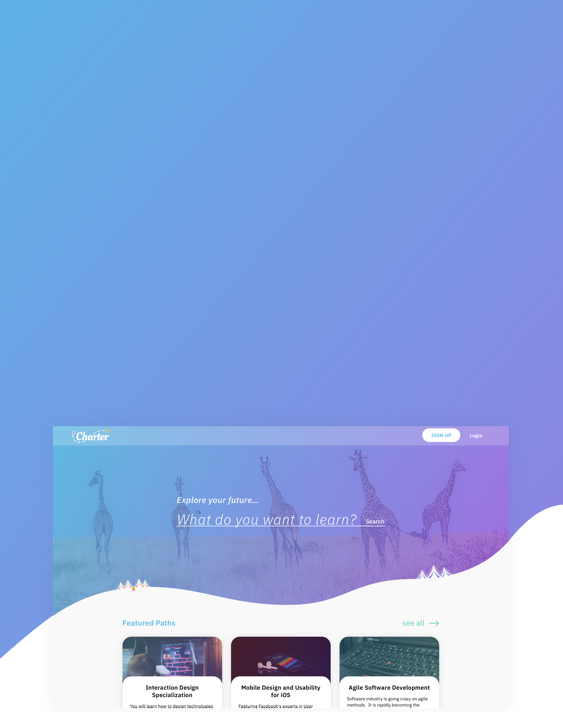
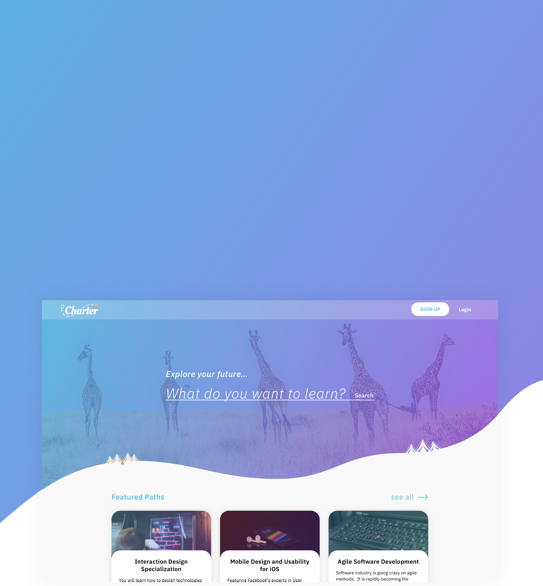
Charter media queries

Changed region(s): [[0.0, 0.4915, 1.0, 1.0], [0.0589, 0.7372, 0.1473, 0.7679]]

diff --git a/styles/charter.css b/styles/charter.css
@@ -122,12 +122,33 @@ header .label{color:white; }
   color:#3F3B50;
 }
 
+.final-product .prototypes a{
+  color:white;
+}
+.quote{
+  color:#42bcef;
+}
+
+.quote li {
+  padding-bottom: 15px;
+  color:#42bcef;
+  line-height: 21px;
+  letter-spacing: 1px;
+}
+.vertical-line {
+  border-left: 2px solid #40bdef;
+}
 
 @media screen and (max-width: 1024px) {
+  main {
+    width: 80%;
+  }
+
+  header .label{ font-size: 16px;}
 
   header.main{
     background-image: url(../images/charter/tall-charter.png);
-    background-size: contain;
+    background-size: cover;
     background-repeat:no-repeat;
     background-position: center;
     height:800px;
@@ -146,7 +167,7 @@ header .label{color:white; }
   .iteration-info .quarter{
     display: block;
     width:80%;
-
+    margin-left: 10%;
   }
   .quarter{
     display: block;
@@ -157,7 +178,30 @@ header .label{color:white; }
   section.course-info{
     margin-bottom: 0;
   }
-
+  .user-research {
+    margin-left: 9%;
+  }
+  .half  .persona-l p, .half .persona-r p{
+    padding-left:0;
+  }
+  section {
+    margin-top: 20px;
+    margin-bottom: 30px;
+  }
+  .top-bottom {
+    margin: 10px 0;
+  }
+  .iteration-info .caseStudy-text {
+    width: 86%;
+     float: none;
+  }
+  .large-textbox {
+    margin: 0 10%;
+    width: 80%;
+  }
+  .number-oval {
+    margin: 0 15px 0 0;
+  }
 }
 @media screen and (max-width: 780px) {
   .flows.off{
@@ -168,7 +212,11 @@ header .label{color:white; }
     width: 90%;
   }
   h3{
-    line-height: 30px;
+    line-height: 43px;
+    font-size: 35px;
+    letter-spacing: .01rem;
+    margin: 10px 0 10px 0;
+    padding-bottom: 10px;
   }
 
   header.main{
@@ -193,10 +241,124 @@ header .label{color:white; }
     background-color: #57B9E6;
     padding: 20px 7%;
   }
+  .num-list {
+    font-family: 'PaulGrotesk-regular';
+    letter-spacing: .04rem;
+    line-height: 23px;
+    font-size: 15px;
+  }
+
+  .quote li {
+      line-height: 18px;
+      font-size: 14px;
+  }
+  .percent-desc {
+    font-family: 'PaulGrotesk-medium';
+    font-size: 14px;
+    line-height: 19px;
+    width: 100%;
+  }
+
 }
 
 @media screen and (max-width: 414px) {
   header.main{
     background-image: url(../images/charter/small-charter.png);
+    height: 455px;
   }
+  h3{
+    letter-spacing: .08rem;
+  }
+
+  img.feat-logo-project {
+    margin-top: 80px;
+    width:50%;
+  }
+  nav.main {
+    width: 60%;
+    padding: 0px 10%;
+  }
+
+  .num-list {
+    letter-spacing: .02rem;
+    line-height: 23px;
+    font-size: 14px;
+  }
+  .user-research {
+    margin-left: 0%;
+  }
+
+  .percent-desc {
+    width: 95%;
+  }
+
+  a{
+    font-size: 16px;
+  }
+  a.textbox{
+    margin-top: 15px;
+  }
+  .padding-top {
+    margin-top: 0px;
+  }
+  .iteration-info .quarter {
+    width: 100%;
+    margin-left: 5%;
+  }
+  .iteration-info .caseStudy-text {
+    line-height: 23px;
+  }
+  .main-charter {
+    background-image: url(../images/charter/bg-bottom-2.png);
+    background-size: cover;
+    background-color: #57B9E6;
+    padding: 20px 4%;
+  }
+  .large-textbox {
+    margin: 0px 1%;
+    width: 100%;
+  }
+}
+@media screen and (max-width: 375px) {
+  nav.main {
+    padding: 0px 5%;
+  }
+  h1 {
+    font-size: 40px;
+  }
+  .number-oval p {
+    line-height: 22px;
+    font-family: 'PaulGrotesk-medium';
+    font-size: 14px;
+  }
+  .number-oval{
+    width:20px;
+    height:20px;
+  }
+  .box {
+    margin: 10px 0;
+  }
+}
+
+@media screen and (max-width: 320px) {
+  #menuToggle {
+      display: block;
+      float: right;
+      position: relative;
+      right: -250px;
+      top: -33px;
+    }
+    nav.main {
+    padding: 0px 4%;
+  }
+  img.feat-logo-project {
+    margin-top: 50px;
+  }
+  header.main {
+      height: 346px;
+  }
+  .box {
+    padding: 20px;
+  }
+
 }

diff --git a/charter.html b/charter.html
@@ -485,11 +485,10 @@
                 <img class="ab-desk-img"src="images/charter/iter-hover-2.png" alt="home screen iteration 2"/>
                 <p class="center caption">Iteration 2</p>
               </div>
-              <div class="textbox margin-left ">
+              <div class="textbox margin-left">
                 <p class="caseStudy-text">One of the features of Charter is that people can create paths based on certain goals and if they happen to have a class added to a path that they have taken before they can swap it out. But people thought this swap button was for redoing the course in the first iteration.</p>
                 <p class="caseStudy-text margin-bottom">In the second iteration, this fun but straightforward swap button cleared up confusion [I mean words make sense most of the time].</p>
               </div>
-
             </section>
           </main>
 
@@ -502,17 +501,17 @@
                   <p class="caseStudy-text">Lets put all of that branding and user testing to work.</p>
                 </div>
                 <div class="">
-                  <div class="align-top col-1-desktop off">
-                    <img class=" screen hidden off" src="images/charter/final-1.png" alt="final screens for desktop"/>
-                    <img class=" screen hidden off" src="images/charter/final-2.png" alt="final screens for desktop"/>
-                    <a  class="" href="https://invis.io/5YHPLOBMBWX" target="_blank">
+                  <div class="align-top col-1-desktop ">
+                    <img class=" screen hidden" src="images/charter/final-1.png" alt="final screens for desktop"/>
+                    <img class=" screen hidden" src="images/charter/final-2.png" alt="final screens for desktop"/>
+                    <a class="off" href="https://invis.io/5YHPLOBMBWX" target="_blank">
                       <img class=" screen" src="images/charter/final-.png" alt="final screens for desktop"/>
                     </a>
                   </div>
-                  <div class="align-top col-2-desktop off">
-                    <img class=" hidden off" src="images/charter/final-3.png" alt="final screens for desktop"/>
-                    <img class=" hidden off" src="images/charter/final-4.png" alt="final screens for desktop"/>
-                    <img class=" hidden off" src="images/charter/final-5.png" alt="final screens for desktop"/>
+                  <div class="align-top col-2-desktop ">
+                    <img class=" hidden " src="images/charter/final-3.png" alt="final screens for desktop"/>
+                    <img class=" hidden " src="images/charter/final-4.png" alt="final screens for desktop"/>
+                    <img class=" hidden " src="images/charter/final-5.png" alt="final screens for desktop"/>
                   </div>
 
 
@@ -635,5 +634,5 @@
             <script src="js/main.js"></script>
           </footer>
 
-        </body>
-        </html>
+  </body>
+</html>
